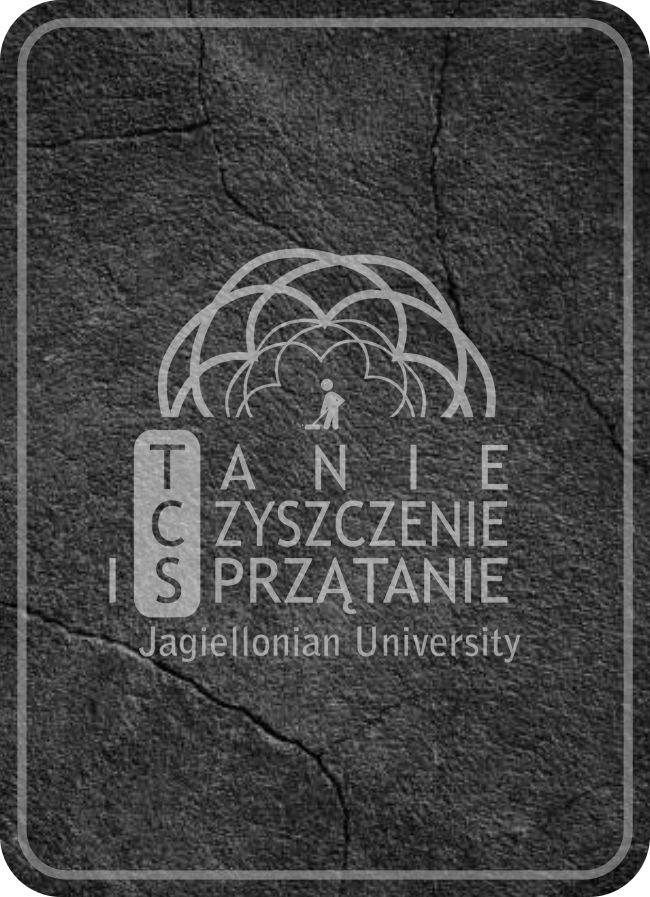
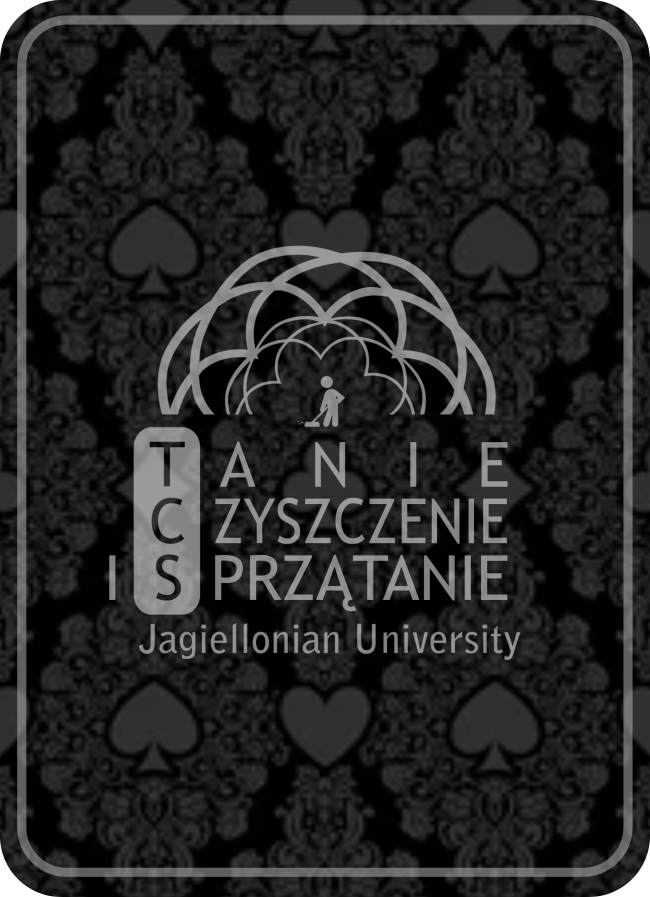
player tab1 tab3 styling

diff --git a/frontend/src/screens/HostScreen.tsx b/frontend/src/screens/HostScreen.tsx
@@ -1,5 +1,5 @@
 import React from 'react';
-import { View, Text, StyleSheet } from 'react-native';
+import { View, Text, StyleSheet, ImageBackground } from 'react-native';
 import { NativeStackScreenProps } from '@react-navigation/native-stack';
 import { RootStackParamList } from '@/src/types/navigation';
 
@@ -25,31 +25,42 @@ export default function HostScreen({ route }: Props) {
 
   return (
     <>
-      <View style={styles.headerContainer}>
-        <Text style={styles.text}>TABLE</Text>
-        <Text style={styles.text}>Room code: {roomCode}</Text>
-      </View>
-      <PlayerBar players={roomData?.players} curentPlayer={roomData.currentPlayer} />
-      <View style={styles.buttons}>
-        <GoHomeButton />
-      </View>
-      <View style={{ alignItems: "center" }}>
-        <Text style={styles.text}>POT: {roomData.potSize}</Text>
-      </View>
-      <View style={styles.main}>
-        <View style={styles.cardsContainer}>
-          <CardViewer card={cards[0]} back={Motive} readyToShow={cards.length > 0} shouldUseConstSize disable />
-          <CardViewer card={cards[1]} back={Motive} readyToShow={cards.length > 1} shouldUseConstSize disable />
-          <CardViewer card={cards[2]} back={Motive} readyToShow={cards.length > 2} shouldUseConstSize disable />
-          <CardViewer card={cards[3]} back={Motive} readyToShow={cards.length > 3} shouldUseConstSize disable />
-          <CardViewer card={cards[4]} back={Motive} readyToShow={cards.length > 4} shouldUseConstSize disable />
+      <ImageBackground
+        source={require('@/assets/images/photo.jpg')}
+        resizeMode="cover"
+        style={styles.background}
+      >
+        <View style={styles.headerContainer}>
+          <Text style={styles.text}>TABLE</Text>
+          <Text style={styles.text}>Room code: {roomCode}</Text>
         </View>
-      </View>
+        <PlayerBar players={roomData?.players} curentPlayer={roomData.currentPlayer} />
+        <View style={styles.buttons}>
+          <GoHomeButton />
+        </View>
+        <View style={{ alignItems: "center" }}>
+          <Text style={styles.text}>POT: {roomData.potSize}</Text>
+        </View>
+        <View style={styles.main}>
+          <View style={styles.cardsContainer}>
+            <CardViewer card={cards[0]} back={Motive} readyToShow={cards.length > 0} shouldUseConstSize disable />
+            <CardViewer card={cards[1]} back={Motive} readyToShow={cards.length > 1} shouldUseConstSize disable />
+            <CardViewer card={cards[2]} back={Motive} readyToShow={cards.length > 2} shouldUseConstSize disable />
+            <CardViewer card={cards[3]} back={Motive} readyToShow={cards.length > 3} shouldUseConstSize disable />
+            <CardViewer card={cards[4]} back={Motive} readyToShow={cards.length > 4} shouldUseConstSize disable />
+          </View>
+        </View>
+      </ImageBackground>
     </>
   );
 }
 
 const styles = StyleSheet.create({
+  background: {
+    flex: 1,
+    width: '100%',
+    height: '100%',
+  },
   container: {
     height: "80%",
   },

diff --git a/frontend/src/components/AmountModal.tsx b/frontend/src/components/AmountModal.tsx
@@ -37,7 +37,7 @@ const NumberInputModal = ({
         >
             <View style={styles.modalBackground}>
                 <View style={styles.modalContainer}>
-                    <Text style={styles.title}>Wprowadź liczbę:</Text>
+                    <Text style={styles.title}>Enter number:</Text>
                     <TextInput
                         style={styles.input}
                         keyboardType="number-pad"
@@ -46,7 +46,7 @@ const NumberInputModal = ({
                     />
                     <View style={{ flexDirection: "row", gap: 20 }}>
                         <TouchableOpacity onPress={onClose} style={styles.button}>
-                            <Text style={styles.buttonText}>Zamknij</Text>
+                            <Text style={styles.buttonText}>Close</Text>
                         </TouchableOpacity>
                         <TouchableOpacity onPress={() => {
                             onConfirm(Number(number));
@@ -71,16 +71,18 @@ const styles = StyleSheet.create({
         left: 0,
         right: 0,
         bottom: 0,
-        backgroundColor: 'rgb(255, 255, 255, 0)',
+        backgroundColor: 'rgba(0, 0, 0, 0)',
         justifyContent: 'center',
         alignItems: 'center',
         zIndex: 1000,
     },
     modalContainer: {
         width: 300,
-        backgroundColor: '#fff',
+        backgroundColor: '#000',
         padding: 25,
         borderRadius: 10,
+        borderColor: '#222',
+        borderWidth: 6,
         alignItems: 'center',
         elevation: 5,
         shadowColor: '#000',
@@ -92,28 +94,31 @@ const styles = StyleSheet.create({
     title: {
         fontSize: 18,
         marginBottom: 15,
+        color: 'gray',
     },
     input: {
         width: '100%',
         height: 40,
-        borderColor: '#ccc',
+        borderColor: '#ddd',
         borderWidth: 1,
         borderRadius: 5,
         paddingHorizontal: 10,
         marginBottom: 20,
+        color: '#ddd',
+        fontSize: 18,
     },
     button: {
         height: 30,
         width: 100,
         borderRadius: 10,
-        borderColor: '#222',
+        borderColor: '#333',
         borderWidth: 2,
         justifyContent: 'center',
         alignItems: 'center',
-        backgroundColor: '#555',
+        backgroundColor: '#333',
     },
     buttonText: {
-        color: '#fff',
+        color: '#ddd',
         fontWeight: 'bold',
     },
 });

diff --git a/frontend/src/components/GoHomeButton.tsx b/frontend/src/components/GoHomeButton.tsx
@@ -1,5 +1,5 @@
 import React from 'react';
-import { Button, View } from 'react-native';
+import {StyleSheet, TouchableOpacity, Text} from 'react-native';
 import { useNavigation } from '@react-navigation/native';
 import { NativeStackNavigationProp } from '@react-navigation/native-stack';
 import { RootStackParamList } from '../types/navigation';
@@ -8,23 +8,34 @@ type HomeNavigationProp = NativeStackNavigationProp<RootStackParamList, 'Home'>;
 
 type GoHomeButton = { title?: string };
 
-function GoHomeButton({ title = "Go to Home Screen" }: GoHomeButton) {
+export default function GoHomeButton({ title = "Go to Home Screen" }: GoHomeButton) {
   const navigation = useNavigation<HomeNavigationProp>();
-
   return (
-    <View style={{ padding: 10 }}>
-      <Button
-        title={title}
-        onPress={() =>
+    <TouchableOpacity style={styles.button} onPress={() =>
           navigation.reset({
             index: 0,
             routes: [{ name: 'Home' }],
           })
-        }
-        color="#555"
-      />
-    </View>
+        }>
+      <Text style={styles.buttonText}>{title}</Text>
+    </TouchableOpacity>
   );
 }
 
-export default GoHomeButton;
+const styles = StyleSheet.create({
+  button: {
+    height: 50,
+    width: 200,
+    borderColor: '#222',
+    borderWidth: 3,
+    borderRadius: 5,
+    justifyContent: 'center',
+    alignItems: 'center',
+    backgroundColor: 'black',
+  },
+  buttonText: {
+    color: '#aaa',
+    fontSize: 18,
+    fontWeight: '500',
+  },
+});

diff --git a/frontend/src/screens/Player/PlayerTab3.tsx b/frontend/src/screens/Player/PlayerTab3.tsx
@@ -1,15 +1,29 @@
+import GoHomeButton from '@/src/components/GoHomeButton';
 import React from 'react';
-import { View, Text, StyleSheet } from 'react-native';
+import { View, Text, StyleSheet, ImageBackground } from 'react-native';
 
 export default function PlayerTab3() {
     return (
         <View style={styles.container}>
-            <Text>Player Tab 3</Text>
+          <ImageBackground
+            source={require('@/assets/images/photo5.jpg')}
+            resizeMode="cover"
+            style={styles.background}
+          >
+            <GoHomeButton/>
+          </ImageBackground>
         </View>
     );
 }
 
 const styles = StyleSheet.create({
+    background: {
+      flex: 1,
+      width: '100%',
+      height: '100%',
+      justifyContent: 'center',
+      alignItems: 'center',
+    },
     container: {
         flex: 1,
         justifyContent: 'center',

diff --git a/frontend/src/screens/Player/PlayerTab1.tsx b/frontend/src/screens/Player/PlayerTab1.tsx
@@ -1,17 +1,30 @@
 import React from 'react';
-import { View, Text, StyleSheet } from 'react-native';
+import { View, Text, StyleSheet, ImageBackground } from 'react-native';
 
 import RankingsViewer from '@/src/components/RankingsViewer';
 
 export default function PlayerTab1() {
     return (
         <View style={styles.container}>
+          <ImageBackground
+            source={require('@/assets/images/photo2.jpg')}
+            resizeMode="cover"
+            style={styles.background}
+          >
             <RankingsViewer/>
+          </ImageBackground>
         </View>
     );
 }
 
 const styles = StyleSheet.create({
+    background: {
+      flex: 1,
+      width: '100%',
+      height: '100%',
+      justifyContent: 'flex-start',
+      alignItems: "center",
+    },
     container: {
         flex: 1,
         justifyContent: 'center',

diff --git a/frontend/src/components/RankingsViewer.tsx b/frontend/src/components/RankingsViewer.tsx
@@ -1,7 +1,7 @@
 import { Dimensions, StyleSheet } from 'react-native';
 import { Image } from 'expo-image';
 
-const RankingsSource = require('@/assets/images/hand-rankings.png')
+const RankingsSource = require('@/assets/images/rankings.png')
 
 export default function ChipsViewer() {
 
@@ -10,8 +10,9 @@ export default function ChipsViewer() {
 
 const styles = StyleSheet.create({
   image: {
+    marginTop: 10,
     width: Math.min(
-      (Dimensions.get('window').width - 16),
+      (Dimensions.get('window').width - 20),
       (Dimensions.get('window').height * 0.5)
     ),
     aspectRatio: 0.57,

diff --git a/frontend/src/screens/Player/PlayerTab2.tsx b/frontend/src/screens/Player/PlayerTab2.tsx
@@ -60,10 +60,10 @@ const PlayerTab2 = ({ route }: Props) => {
   return (<>
     <GestureHandlerRootView style={styles.container}>
       <ImageBackground
-      source={require('@/assets/images/photo.jpg')}
-      resizeMode="cover"
-      style={styles.background}
-    >
+        source={require('@/assets/images/photo.jpg')}
+        resizeMode="cover"
+        style={styles.background}
+      >
       {/* <View style={styles.headerContainer}>
         <Text style={styles.text}>Player {roomData.playerID} </Text>
         <Text style={styles.text}>Room code: {roomCode}</Text>

diff --git a/frontend/src/components/MoneyAmount.tsx b/frontend/src/components/MoneyAmount.tsx
@@ -18,11 +18,10 @@ const styles = StyleSheet.create({
   button: {
     height: 40,
     width: 160,
-    borderTopRightRadius: 30,
-    borderTopLeftRadius: 30,
+    borderRadius: 10,
     justifyContent: 'center',
     alignItems: 'center',
-    backgroundColor: 'rgba(222,222,222,0.5)',
+    backgroundColor: 'rgba(0, 0, 0, 0.2)',
     borderColor: '#222',
     borderWidth: 2,
     margin: -10,

diff --git a/frontend/src/components/ControllButton.tsx b/frontend/src/components/ControllButton.tsx
@@ -18,12 +18,13 @@ const styles = StyleSheet.create({
   button: {
     height: 40,
     width: 120,
+    margin: 2,
     borderColor: '#222',
     borderWidth: 2,
-    borderRadius: 3,
+    borderRadius: 10,
     justifyContent: 'center',
     alignItems: 'center',
-    backgroundColor: '#333',
+    backgroundColor: 'black',
   },
   buttonText: {
     color: '#aaa',
